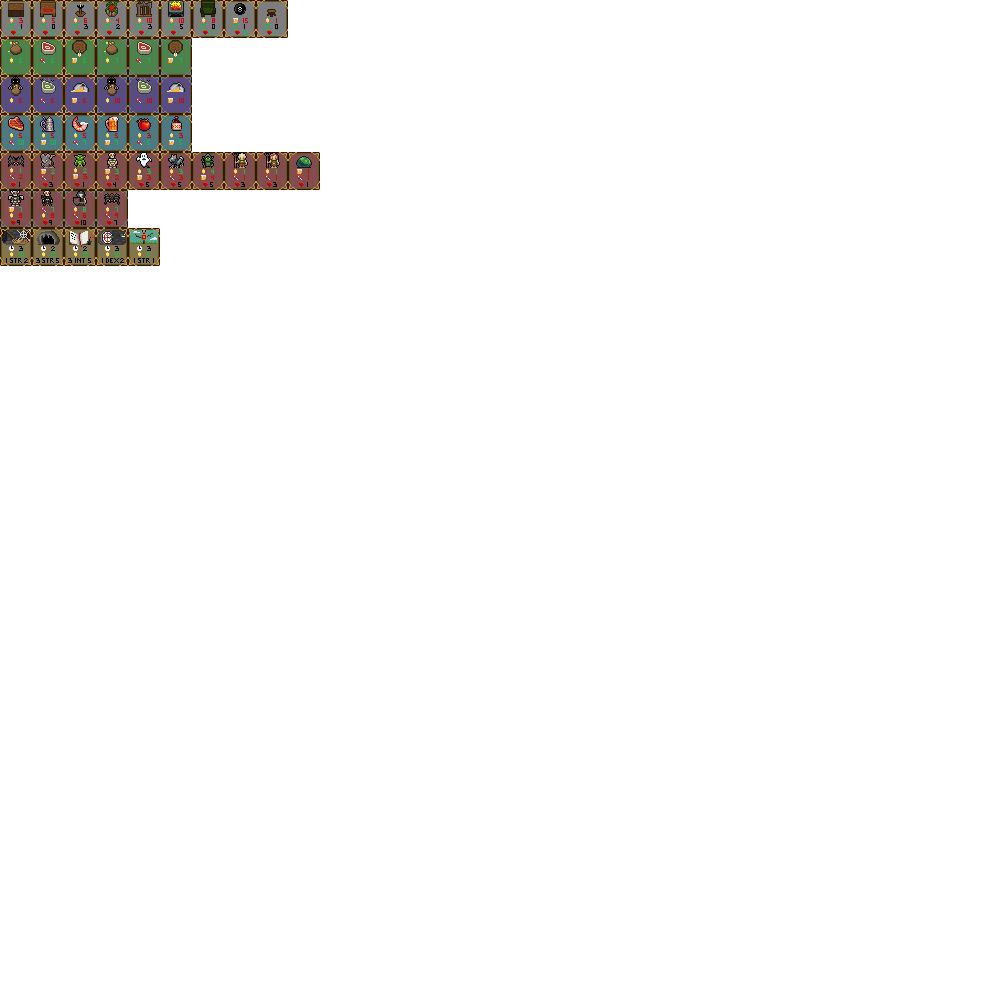
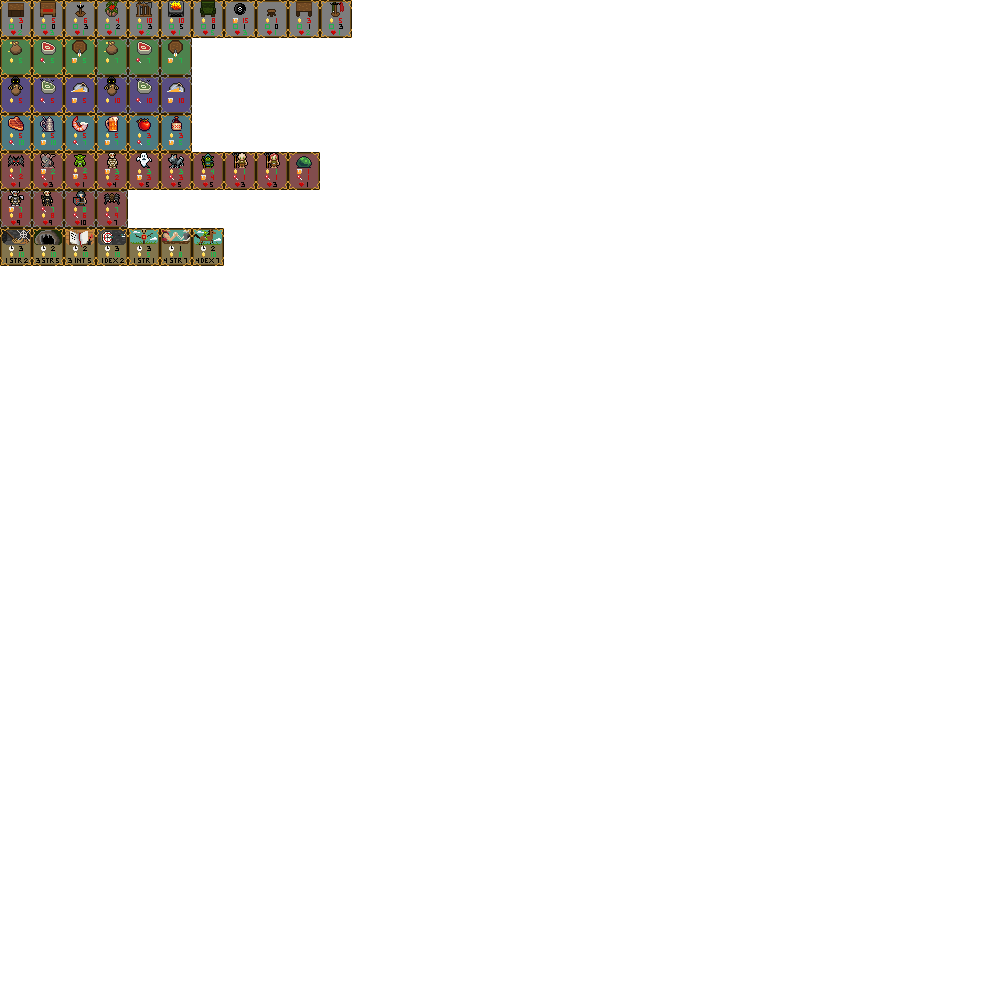
Added More Content

Changed region(s): [[0.155, 0.217, 0.248, 0.279], [0.279, 0.0, 0.372, 0.062], [0.031, 0.217, 0.062, 0.248]]

diff --git a/db.js b/db.js
@@ -7,7 +7,9 @@ var OBJECTSPRITES = {
     "firepit" : new Vector2D(5,0),
     "lazboy" : new Vector2D(6,0),
     "8ball" : new Vector2D(7,0),
-    "stool" : new Vector2D(8,0)
+    "stool" : new Vector2D(8,0),
+    "table" : new Vector2D(9,0),
+    "coatrack" : new Vector2D(10,0)
 }
 
 var BUFFCURSESPRITES = {
@@ -56,13 +58,15 @@ var QUESTCARDSPRITES = {
     "cave" : new Vector2D(1,6),
     "book" : new Vector2D(2,6),
     "darts" : new Vector2D(3,6),
-    "trainingdummy" : new Vector2D(4,6)
+    "trainingdummy" : new Vector2D(4,6),
+    "armwrestle" : new Vector2D(5,6),
+    "dressage" : new Vector2D(6,6)
 }
 
 var RSCTYPECHANCE = 0.5;
 var OBJECTTYPECHANCE = RSCTYPECHANCE + 0.3;
 var BUFFTYPECHANCE = OBJECTTYPECHANCE + 0.15;
-var TYPECHANCEMOD = 0.005;
+var TYPECHANCEMOD = 0.007;
 
 var NOCHARCHANCE = 0.1;
 var ONECHARCHANCE = NOCHARCHANCE + 0.5;
@@ -146,7 +150,7 @@ class Database
     GetRandomHandCard(turn)
     {
         //first use a different type chance based on turn:
-        let turnModifier = (turn > 100 ? 100 : turn) * TYPECHANCEMOD;
+        let turnModifier = (turn > 150 ? 150 : turn) * TYPECHANCEMOD;
         let rscTypeChance = RSCTYPECHANCE - turnModifier/3;
         let objectTypeChance = OBJECTTYPECHANCE - turnModifier/3;
         let buffTypeChance = BUFFTYPECHANCE - turnModifier/3;
@@ -321,6 +325,12 @@ class Database
         this.objectCardsCommon.push(new ObjectCard(OBJECTSPRITES["stool"].x, OBJECTSPRITES["stool"].y,
                                             OBJECTSPRITES["stool"].x, OBJECTSPRITES["stool"].y, 1, 0, true, -1,
                                             new ResourceUpkeep(this.gold, -1), "Stool"));
+        this.objectCardsCommon.push(new ObjectCard(OBJECTSPRITES["table"].x, OBJECTSPRITES["table"].y,
+                                            OBJECTSPRITES["table"].x, OBJECTSPRITES["table"].y, 2, 1, false, -1,
+                                            new ResourceUpkeep(this.gold, -3), "Table"));
+        this.objectCardsCommon.push(new ObjectCard(OBJECTSPRITES["coatrack"].x, OBJECTSPRITES["coatrack"].y,
+                                            OBJECTSPRITES["coatrack"].x, OBJECTSPRITES["coatrack"].y, 1, 3, false, -1,
+                                            new ResourceUpkeep(this.gold, -5), "Coat Rack"));
     }
 
     LoadbuffCardsCommon()
@@ -450,6 +460,12 @@ class Database
                                            1, 2, STATTYPE_DEX, 3, [new ResourceUpkeep(this.gold, 10)], "Play Darts"));
         this.questCardsCommon.push(new QuestCard(QUESTCARDSPRITES["trainingdummy"].x, QUESTCARDSPRITES["trainingdummy"].y,
                                            QUESTCARDSPRITES["trainingdummy"].x, QUESTCARDSPRITES["trainingdummy"].y,
-                                          1, 1, STATTYPE_DEX, 3, [new ResourceUpkeep(this.gold, 5)], "Basic Training"));
+                                          1, 1, STATTYPE_STR, 3, [new ResourceUpkeep(this.gold, 5)], "Basic Training"));
+        this.questCardsCommon.push(new QuestCard(QUESTCARDSPRITES["armwrestle"].x, QUESTCARDSPRITES["armwrestle"].y,
+                                          QUESTCARDSPRITES["armwrestle"].x, QUESTCARDSPRITES["armwrestle"].y,
+                                         4, 7, STATTYPE_STR, 1, [new ResourceUpkeep(this.gold, 8)], "Arm Wrestle"));
+        this.questCardsCommon.push(new QuestCard(QUESTCARDSPRITES["dressage"].x, QUESTCARDSPRITES["dressage"].y,
+                                         QUESTCARDSPRITES["dressage"].x, QUESTCARDSPRITES["dressage"].y,
+                                        4, 7, STATTYPE_DEX, 2, [new ResourceUpkeep(this.gold, 10)], "Horse Dressage"));
     }
 }

diff --git a/main.js b/main.js
@@ -185,7 +185,7 @@ class Game
         if (message != "")
         {
           //TODO: again, don't like using the string comparison here
-          if (message == "Purchased.")
+          if (message == "Purchased")
           {
             this.hand.RemoveSelectedCard();
             this.audio.PlayActivate();
